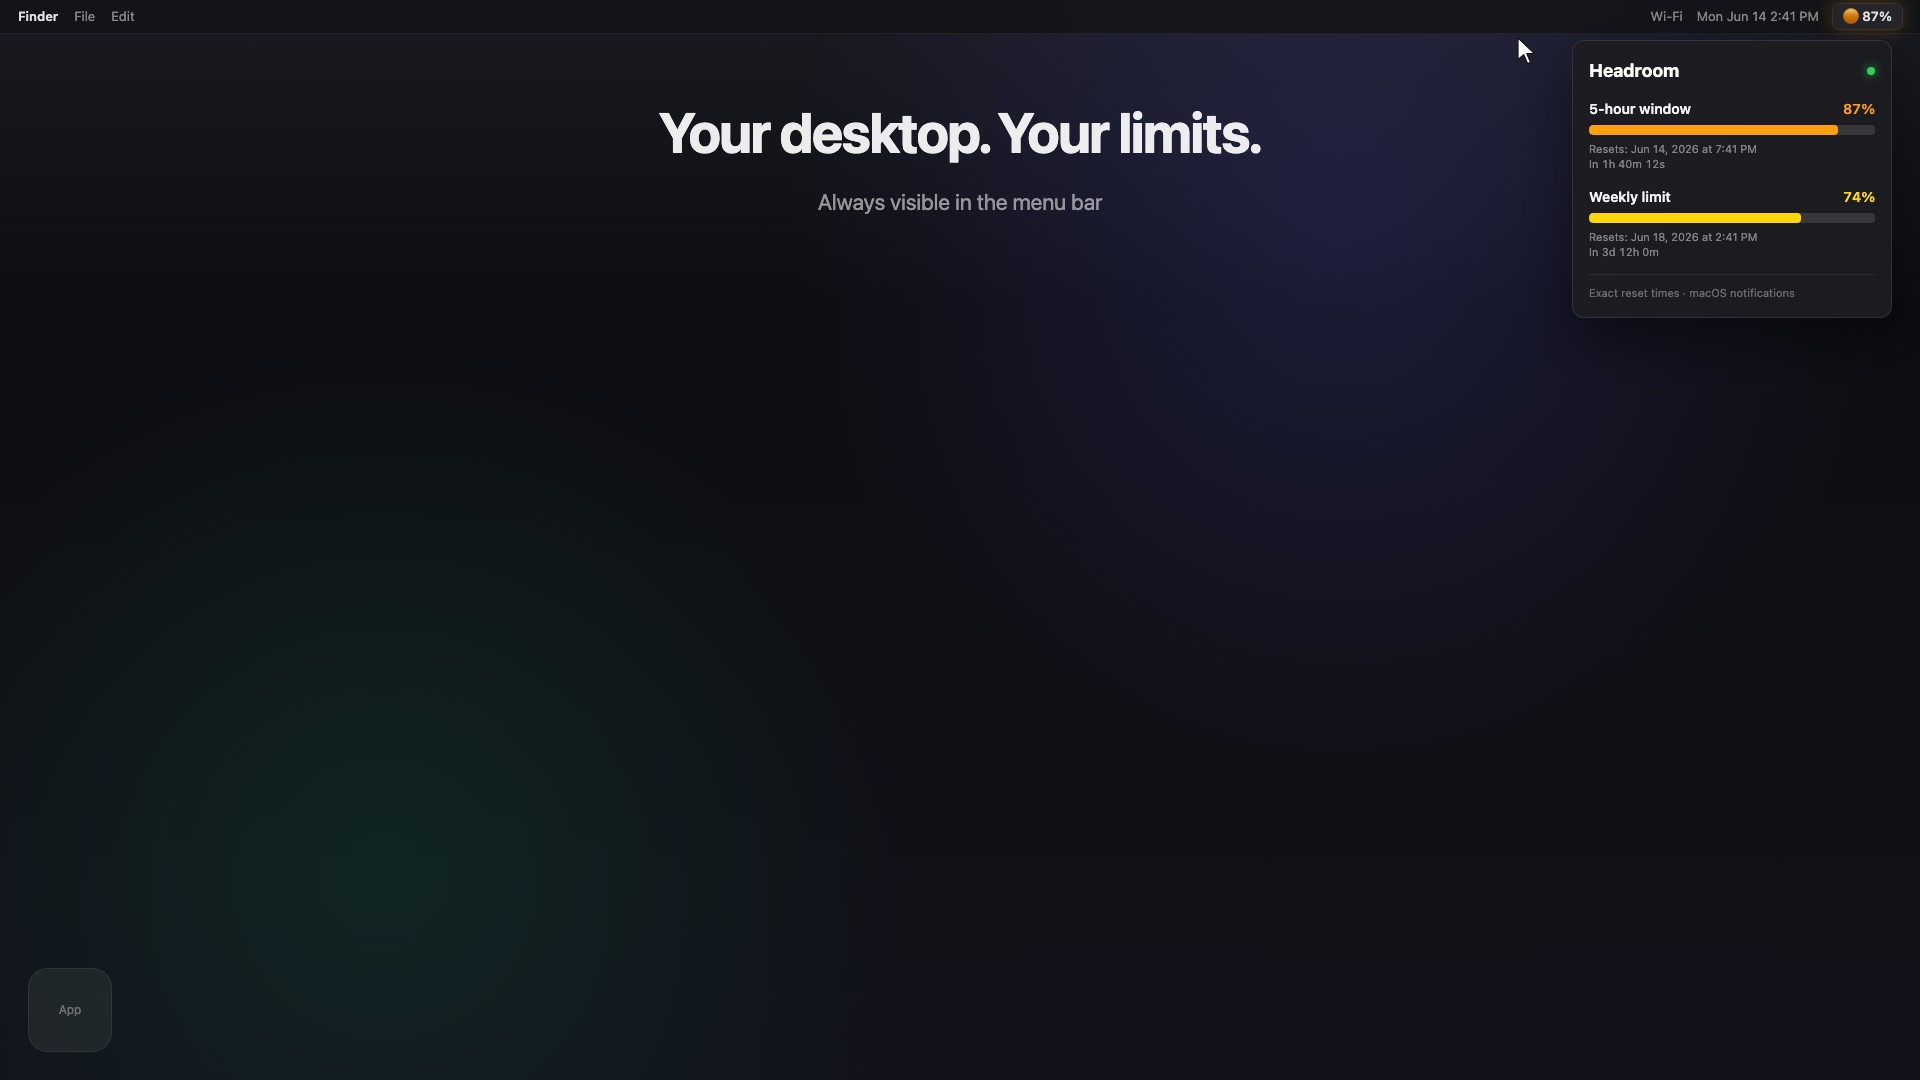
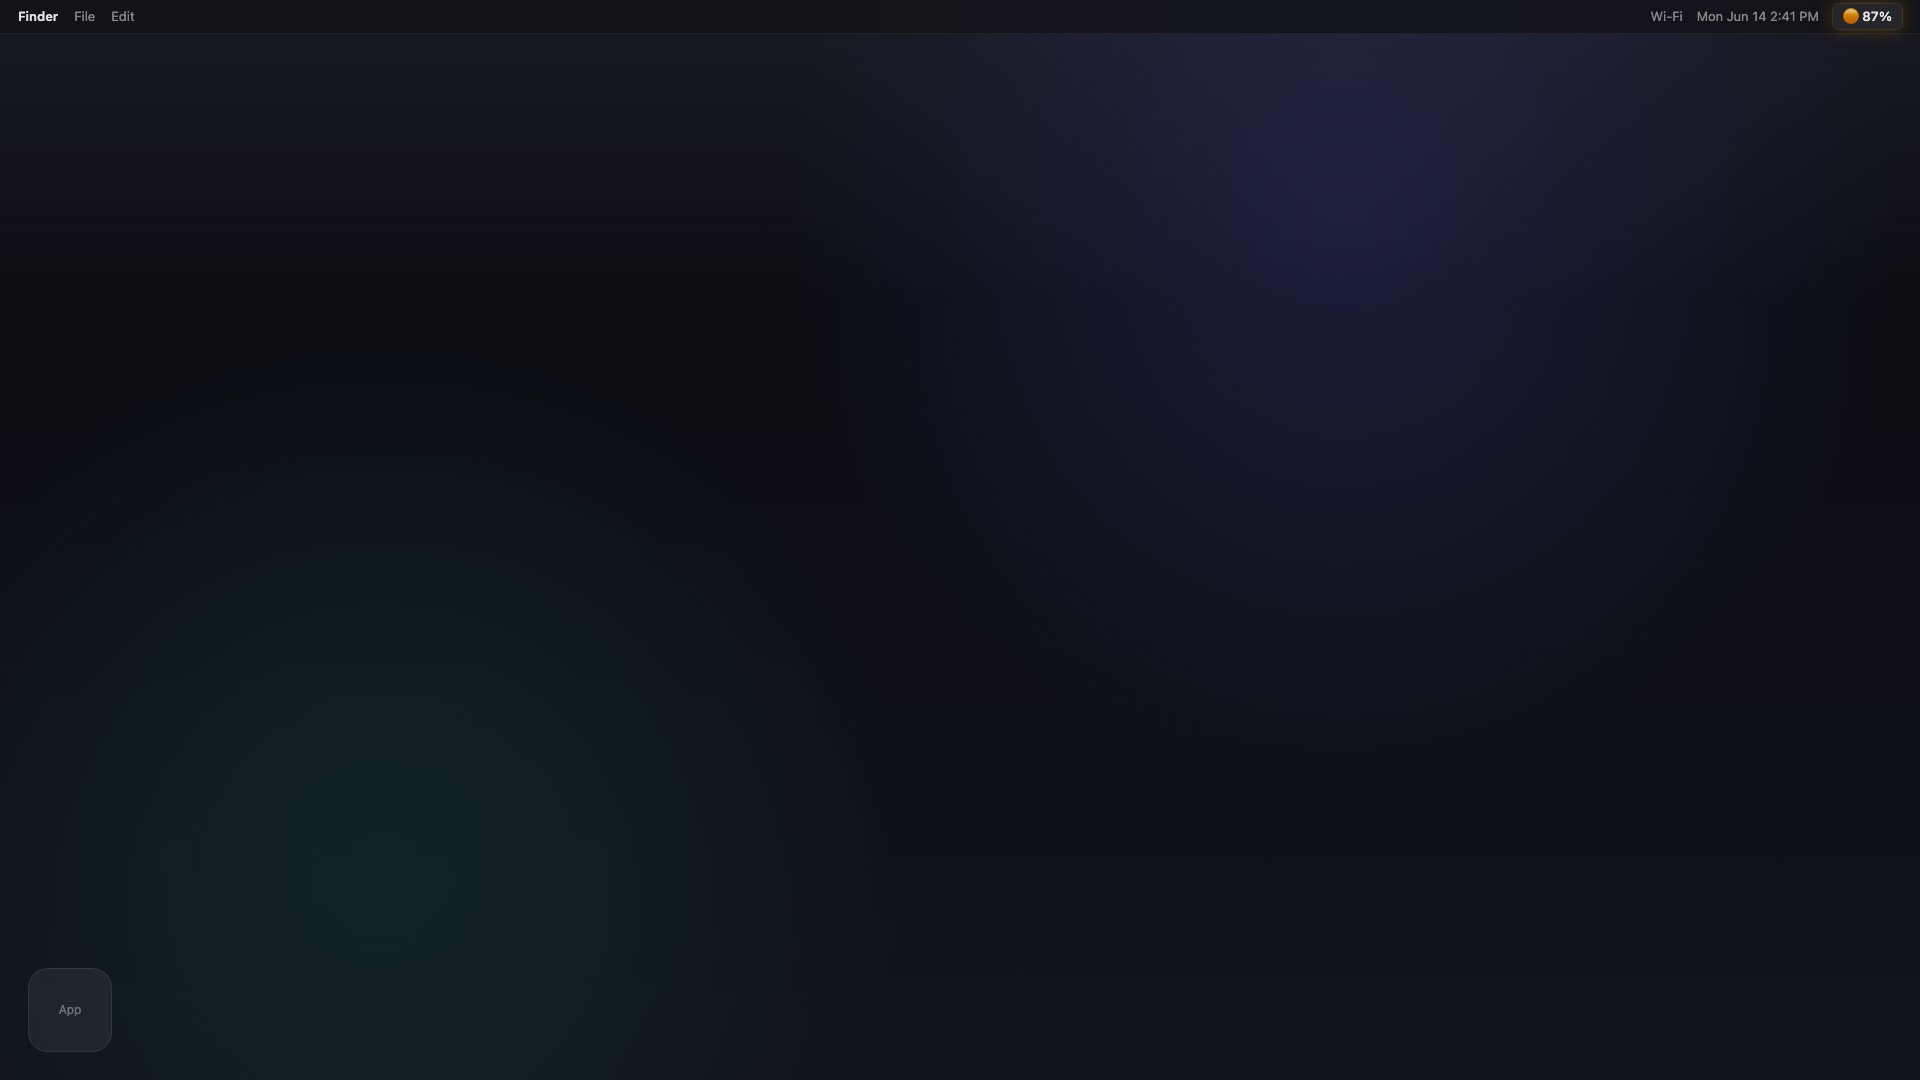
Revise promo: bar fills 10% to 87%, closes to menu bar, fade to outro.
The dropdown now opens low and animates upward, minimizes to show only the
menu bar percentage, then fades to black before the download end card.

Changed region(s): [[0.8125, 0.0611, 1.0, 0.275], [0.3438, 0.0917, 0.6562, 0.1528], [0.4375, 0.1833, 0.5625, 0.2139]]

diff --git a/video/src/HeadroomPromo.tsx b/video/src/HeadroomPromo.tsx
@@ -2,6 +2,7 @@ import {
   AbsoluteFill,
   Easing,
   interpolate,
+  Sequence,
   spring,
   useCurrentFrame,
   useVideoConfig,
@@ -13,30 +14,64 @@ export const HeadroomPromo: React.FC = () => {
   const frame = useCurrentFrame();
   const { fps, width, height } = useVideoConfig();
 
-  const scene1End = 3 * fps;
-  const scene2End = 5.5 * fps;
-  const scene3End = 8 * fps;
-  const zoomEnd = 10 * fps;
+  const clickStart = 2 * fps;
+  const popoverOpenStart = 2.4 * fps;
+  const fillStart = 2.8 * fps;
+  const fillEnd = 5.8 * fps;
+  const closeStart = 6.1 * fps;
+  const closeEnd = 7 * fps;
+  const holdEnd = 8.2 * fps;
+  const fadeStart = holdEnd;
+  const fadeEnd = 9.2 * fps;
 
-  const showPopover = frame >= scene1End + 8;
-  const popoverOpen = spring({
-    frame: frame - (scene1End + 8),
+  const popoverOpenSpring = spring({
+    frame: frame - popoverOpenStart,
     fps,
-    config: { damping: 18, stiffness: 180 },
+    config: { damping: 20, stiffness: 200 },
   });
 
-  const zoom = interpolate(frame, [scene3End, zoomEnd], [1, 0.72], {
+  const popoverCloseProgress = interpolate(frame, [closeStart, closeEnd], [0, 1], {
     extrapolateLeft: "clamp",
     extrapolateRight: "clamp",
-    easing: Easing.bezier(0.16, 1, 0.3, 1),
+    easing: Easing.bezier(0.4, 0, 0.2, 1),
   });
 
-  const desktopOpacity = interpolate(frame, [zoomEnd - 10, zoomEnd + 20], [1, 0], {
+  let popoverProgress = 0;
+  if (frame >= popoverOpenStart && frame < closeStart) {
+    popoverProgress = popoverOpenSpring;
+  } else if (frame >= closeStart && frame < closeEnd) {
+    popoverProgress = 1 - popoverCloseProgress;
+  }
+
+  const sessionPercent = interpolate(frame, [fillStart, fillEnd], [10, 87], {
+    extrapolateLeft: "clamp",
+    extrapolateRight: "clamp",
+    easing: Easing.bezier(0.22, 1, 0.36, 1),
+  });
+
+  const menuBarPercent =
+    frame < fillStart ? 10 : frame < fillEnd ? sessionPercent : 87;
+
+  const weeklyPercent = 48;
+
+  const heroOpacity = interpolate(frame, [popoverOpenStart, fillStart, closeStart], [1, 0.35, 0], {
     extrapolateLeft: "clamp",
     extrapolateRight: "clamp",
   });
 
-  const endOpacity = interpolate(frame, [zoomEnd, zoomEnd + 18], [0, 1], {
+  const desktopOpacity = interpolate(frame, [fadeStart, fadeEnd], [1, 0], {
+    extrapolateLeft: "clamp",
+    extrapolateRight: "clamp",
+    easing: Easing.inOut(Easing.cubic),
+  });
+
+  const blackOverlay = interpolate(frame, [fadeStart, fadeEnd], [0, 1], {
+    extrapolateLeft: "clamp",
+    extrapolateRight: "clamp",
+    easing: Easing.inOut(Easing.cubic),
+  });
+
+  const endOpacity = interpolate(frame, [fadeEnd - 6, fadeEnd + 24], [0, 1], {
     extrapolateLeft: "clamp",
     extrapolateRight: "clamp",
     easing: Easing.out(Easing.cubic),
@@ -44,8 +79,8 @@ export const HeadroomPromo: React.FC = () => {
 
   const cursorX = interpolate(
     frame,
-    [scene1End - 12, scene1End + 6],
-    [width * 0.55, width * 0.79],
+    [clickStart - 10, clickStart + 8],
+    [width * 0.52, width * 0.79],
     {
       extrapolateLeft: "clamp",
       extrapolateRight: "clamp",
@@ -55,8 +90,8 @@ export const HeadroomPromo: React.FC = () => {
 
   const cursorY = interpolate(
     frame,
-    [scene1End - 12, scene1End + 6],
-    [height * 0.18, height * 0.034],
+    [clickStart - 10, clickStart + 8],
+    [height * 0.2, height * 0.034],
     {
       extrapolateLeft: "clamp",
       extrapolateRight: "clamp",
@@ -64,31 +99,23 @@ export const HeadroomPromo: React.FC = () => {
     },
   );
 
-  const clickScale = frame >= scene1End + 4 && frame <= scene1End + 10 ? 0.86 : 1;
+  const clickScale =
+    frame >= clickStart + 2 && frame <= clickStart + 8 ? 0.86 : 1;
 
-  const sessionPercent = interpolate(frame, [0, scene2End, scene3End], [87, 87, 62], {
-    extrapolateLeft: "clamp",
-    extrapolateRight: "clamp",
-  });
-
-  const weeklyPercent = 74;
+  const showCursor = frame >= clickStart - 10 && frame < popoverOpenStart + 20;
 
   return (
-    <AbsoluteFill style={{ backgroundColor: "#050508" }}>
-      <AbsoluteFill
-        style={{
-          transform: `scale(${zoom})`,
-          opacity: desktopOpacity,
-          transformOrigin: "50% 8%",
-        }}
-      >
+    <AbsoluteFill style={{ backgroundColor: "#000" }}>
+      <AbsoluteFill style={{ opacity: desktopOpacity }}>
         <MacDesktop
-          sessionPercent={sessionPercent}
+          sessionPercent={menuBarPercent}
           weeklyPercent={weeklyPercent}
-          popoverProgress={showPopover ? popoverOpen : 0}
+          popoverSessionPercent={sessionPercent}
+          popoverProgress={popoverProgress}
+          heroOpacity={heroOpacity}
         />
 
-        {frame >= scene1End - 12 && frame < zoomEnd && (
+        {showCursor && (
           <div
             style={{
               position: "absolute",
@@ -104,8 +131,17 @@ export const HeadroomPromo: React.FC = () => {
         )}
       </AbsoluteFill>
 
+      <AbsoluteFill
+        style={{
+          backgroundColor: "#000",
+          opacity: blackOverlay,
+        }}
+      />
+
       <AbsoluteFill style={{ opacity: endOpacity }}>
-        <EndCard />
+        <Sequence from={Math.round(fadeEnd)} layout="none">
+          <EndCard />
+        </Sequence>
       </AbsoluteFill>
     </AbsoluteFill>
   );

diff --git a/video/src/MacDesktop.tsx b/video/src/MacDesktop.tsx
@@ -4,13 +4,17 @@ import { MenuBarPopover } from "./MenuBarPopover";
 type MacDesktopProps = {
   sessionPercent: number;
   weeklyPercent: number;
+  popoverSessionPercent: number;
   popoverProgress: number;
+  heroOpacity: number;
 };
 
 export const MacDesktop: React.FC<MacDesktopProps> = ({
   sessionPercent,
   weeklyPercent,
+  popoverSessionPercent,
   popoverProgress,
+  heroOpacity,
 }) => {
   const frame = useCurrentFrame();
   const glow = interpolate(frame % 45, [0, 22, 45], [0.35, 0.9, 0.35]);
@@ -90,6 +94,7 @@ export const MacDesktop: React.FC<MacDesktopProps> = ({
                 .padStart(2, "0")}`,
               fontWeight: 600,
               fontVariantNumeric: "tabular-nums",
+              transition: "none",
             }}
           >
             {dot} {Math.round(sessionPercent)}%
@@ -105,6 +110,7 @@ export const MacDesktop: React.FC<MacDesktopProps> = ({
           transform: "translateX(-50%)",
           color: "rgba(255,255,255,0.92)",
           textAlign: "center",
+          opacity: heroOpacity,
         }}
       >
         <div style={{ fontSize: 56, fontWeight: 700, letterSpacing: -1.5 }}>
@@ -121,22 +127,25 @@ export const MacDesktop: React.FC<MacDesktopProps> = ({
         </div>
       </div>
 
-      <div
-        style={{
-          position: "absolute",
-          right: 28,
-          top: 40,
-          zIndex: 30,
-          transform: `translateY(${interpolate(popoverProgress, [0, 1], [-8, 0])}px)`,
-          opacity: popoverProgress,
-        }}
-      >
-        <MenuBarPopover
-          sessionPercent={sessionPercent}
-          weeklyPercent={weeklyPercent}
-          progress={popoverProgress}
-        />
-      </div>
+      {popoverProgress > 0.01 && (
+        <div
+          style={{
+            position: "absolute",
+            right: 28,
+            top: 40,
+            zIndex: 30,
+            transform: `translateY(${interpolate(popoverProgress, [0, 1], [-12, 0])}px) scale(${interpolate(popoverProgress, [0, 1], [0.96, 1])})`,
+            opacity: popoverProgress,
+            transformOrigin: "top right",
+          }}
+        >
+          <MenuBarPopover
+            sessionPercent={popoverSessionPercent}
+            weeklyPercent={weeklyPercent}
+            progress={popoverProgress}
+          />
+        </div>
+      )}
 
       <div
         style={{